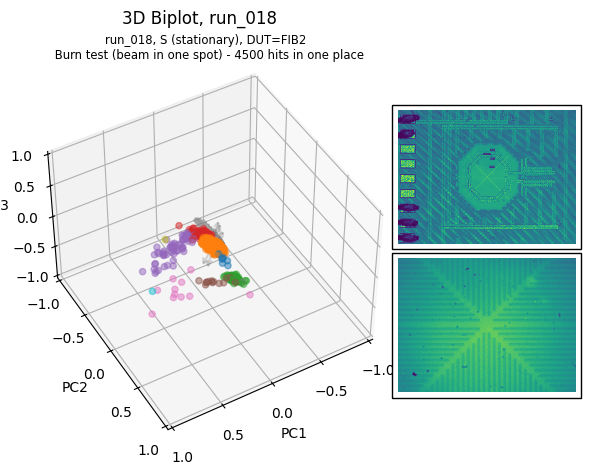
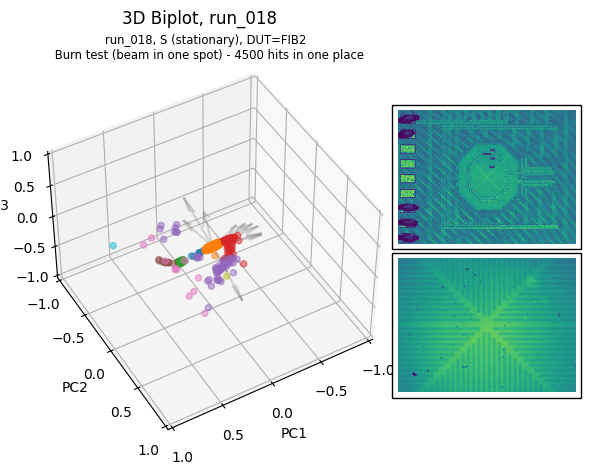
Added derivative and fft plots, changed test feature extraction

Changed region(s): [[0.2132, 0.4126, 0.4569, 0.6779], [0.2437, 0.6484, 0.2741, 0.6779], [0.1827, 0.5011, 0.2132, 0.5305]]

diff --git a/new/feature_extraction_test.py b/new/feature_extraction_test.py
@@ -42,10 +42,10 @@ import h5py
 import argparse
 import numpy as np
 import pandas as pd
-
 import dask
 import dask.dataframe as dd
 from dask.distributed import Client, LocalCluster
+from tsfresh.feature_extraction import extract_features
 
 
 from config import (
@@ -59,6 +59,9 @@ from utils import require_processing_stage
 
 # TODO add beam position info to transient
 
+FC_PARAMETERS = {
+    "maximum": None
+}
 
 def load_transient(h5_path, tran_name, time_data):
     # TODO try to find way to speed up reading transients from disk
@@ -94,20 +97,28 @@ def process_transient(df):
     # Remove NaN 'probe' data since it is causing issues with feature extraction
     df = df[df["transient"].notna()]
 
+    # Extract features of single transient
+    feature_df = extract_features(
+        df,
+        column_id="transient",
+        column_sort="time",
+        n_jobs=0,
+        default_fc_parameters=FC_PARAMETERS,
+        disable_progressbar=True,
+        show_warnings=False,
+    )
+
     # Set tranient column as index
-    feature_df = pd.DataFrame()
     feature_df = feature_df.rename_axis("transient").reset_index(drop=False)
     feature_df.transient = feature_df.transient.astype("category")
     feature_df.set_index("transient")
 
-    feature_df["transient"] = [df['transient'].iloc[0]]
-
     if (len(df["time"].to_numpy()) > 1):
-        bin_maxs, last_timestamps = max_values_in_bins(df["time"].to_numpy(), df["frequency"].to_numpy(), 100)
+        bin_maxs, last_timestamps = max_values_in_bins(df["time"].to_numpy(), df["frequency"].to_numpy(), 8)
         for param_name, param_value in enumerate(bin_maxs):
             feature_df["max_bin_" + str(param_name)] = [param_value]
     else:
-        bin_maxs = np.repeat(1, 100)
+        bin_maxs = np.repeat(1, 8)
         for param_name, param_value in enumerate(bin_maxs):
             feature_df["max_bin_" + str(param_name)] = [param_value]
 
@@ -115,8 +126,10 @@ def process_transient(df):
 
 
 def max_values_in_bins(timestamps, values, num_bins):
-    # Calculate the bin size
-    bin_size = (timestamps[-1] - timestamps[0]) / num_bins
+    # Calculate the bin size based on num_bins symetric around zero point
+    #TODO find better way to select zero index
+    zero_timestamp = np.where(np.isclose(timestamps, 0, atol=1e-5))[0][0]
+    bin_size = 2 * (timestamps[zero_timestamp] - timestamps[0]) / num_bins
 
     # Calculate the bin edges
     bin_edges = [timestamps[0] + i * bin_size for i in range(num_bins + 1)]
@@ -135,11 +148,6 @@ def max_values_in_bins(timestamps, values, num_bins):
         last_timestamp = timestamps[mask][-1] if np.any(mask) else None
         bin_maxs.append(bin_max)
         last_timestamps.append(last_timestamp)
-
-    # Normalize the bin sums to the range [0, 1]
-    # max_sum = np.max(bin_maxs)
-    # min_sum = np.min(bin_maxs)
-    # normalized_bin_maxs = [(x - min_sum) / (max_sum - min_sum) for x in bin_maxs]
 
     return bin_maxs, last_timestamps
 

diff --git a/new/plot_transient_fft.py b/new/plot_transient_fft.py
@@ -1,0 +1,77 @@
+import os
+import numpy as np
+import argparse
+import h5py
+import matplotlib.pyplot as plt
+
+from config import (
+    DATA_STRUCTURED_DIRECTORY,
+    WINDOW_SIZE,
+    DOWNSAMPLE_FACTOR,
+)
+from utils import generatePlotTitle, require_processing_stage
+
+# Initialise argument parser
+parser = argparse.ArgumentParser()
+parser.add_argument("run_number", type=int)
+parser.add_argument("tran_number", type=int)
+args = parser.parse_args()
+run_number = args.run_number
+tran_number = args.tran_number
+
+# TODO cleanup code
+
+h5_path = os.path.join(DATA_STRUCTURED_DIRECTORY, f"run_{run_number:03d}.h5")
+with h5py.File(h5_path, "r") as h5file:
+    tran_name = f"tran_{tran_number:06d}"
+    
+    # Check if file is up to required processing stage
+    require_processing_stage(h5file, 2, strict=True)
+
+    # Get additional meta data
+    fs = h5file["sdr_data"].attrs["sdr_info_fs"]
+    len_pretrig = h5file["sdr_data"].attrs["sdr_info_len_pretrig"]
+    len_posttrig = h5file["sdr_data"].attrs["sdr_info_len_posttrig"]
+    dsp_ntaps = h5file["sdr_data"].attrs["dsp_info_pre_demod_lpf_taps"]
+
+    # Calculate real time from meta data
+    event_len = len_pretrig + len_posttrig - dsp_ntaps
+    time_data = np.arange(start=0, stop=event_len / fs, step=1 / fs) - len_pretrig / fs
+
+    tran_data = np.array(h5file["sdr_data"]["all"][tran_name])
+
+    # Subtract mean baseline frequency from each sample to get delta frequency
+    baseline_freq = h5file["sdr_data"]["all"][tran_name].attrs["baseline_freq_mean_hz"]
+    tran_data = np.subtract(tran_data, baseline_freq)
+
+    # Apply moving average filter
+    window = np.ones(WINDOW_SIZE) / WINDOW_SIZE
+    tran_data_ds = np.convolve(tran_data, window, mode="valid")
+
+    # Adjust time data to match length of convoluted output
+    time_data_ds = time_data[WINDOW_SIZE - 1 :]
+
+    # Downsample time and frequency data
+    time_data_ds = time_data_ds[::DOWNSAMPLE_FACTOR]
+    tran_data_ds = tran_data_ds[::DOWNSAMPLE_FACTOR]
+    
+    fig, ax = plt.subplots()
+    ## FFT
+    # Calculate time intervals
+    time_intervals = np.diff(time_data_ds)  # Differences between consecutive timestamps
+
+    # Perform Fourier transformation
+    fft_values = np.fft.fft(tran_data_ds)
+    frequencies = np.fft.fftfreq(len(fft_values), d=time_intervals[0])  # Use the first time interval
+
+    # Keep only positive frequencies (assuming real input)
+    positive_frequencies = frequencies[:len(frequencies) // 2]
+    positive_fft_values = 2.0 / len(fft_values) * np.abs(fft_values[:len(fft_values) // 2])
+
+    # Plot the Fourier-transformed value vs. frequency
+    ax.plot(positive_frequencies[25:], positive_fft_values[25:])
+    ax.set_xlabel("Frequency (Hz)")
+    ax.set_ylabel("Amplitude")
+
+    generatePlotTitle(ax, f"Transient {tran_name} - FFT", run_number)
+    plt.savefig(f"plots/run_fft_{run_number:03d}_{tran_name}.png", bbox_inches="tight")

diff --git a/new/plot_transient_dt.py b/new/plot_transient_dt.py
@@ -1,0 +1,72 @@
+import os
+import numpy as np
+import argparse
+import h5py
+import matplotlib.pyplot as plt
+
+from config import (
+    DATA_STRUCTURED_DIRECTORY,
+    WINDOW_SIZE,
+    DOWNSAMPLE_FACTOR,
+)
+from utils import generatePlotTitle, require_processing_stage
+
+# Initialise argument parser
+parser = argparse.ArgumentParser()
+parser.add_argument("run_number", type=int)
+parser.add_argument("tran_number", type=int)
+args = parser.parse_args()
+run_number = args.run_number
+tran_number = args.tran_number
+
+# TODO cleanup code
+
+h5_path = os.path.join(DATA_STRUCTURED_DIRECTORY, f"run_{run_number:03d}.h5")
+with h5py.File(h5_path, "r") as h5file:
+    tran_name = f"tran_{tran_number:06d}"
+    
+    # Check if file is up to required processing stage
+    require_processing_stage(h5file, 2, strict=True)
+
+    # Get additional meta data
+    fs = h5file["sdr_data"].attrs["sdr_info_fs"]
+    len_pretrig = h5file["sdr_data"].attrs["sdr_info_len_pretrig"]
+    len_posttrig = h5file["sdr_data"].attrs["sdr_info_len_posttrig"]
+    dsp_ntaps = h5file["sdr_data"].attrs["dsp_info_pre_demod_lpf_taps"]
+
+    # Calculate real time from meta data
+    event_len = len_pretrig + len_posttrig - dsp_ntaps
+    time_data = np.arange(start=0, stop=event_len / fs, step=1 / fs) - len_pretrig / fs
+    tran_data = np.array(h5file["sdr_data"]["all"][tran_name])
+
+    # Subtract mean baseline frequency from each sample to get delta frequency
+    baseline_freq = h5file["sdr_data"]["all"][tran_name].attrs["baseline_freq_mean_hz"]
+    tran_data = np.subtract(tran_data, baseline_freq)
+    
+    # Apply moving average filter
+    WINDOW_SIZE = 1000
+    window = np.ones(WINDOW_SIZE) / WINDOW_SIZE
+    tran_data = np.convolve(tran_data, window, mode="valid")
+
+    # Adjust time data to match length of convoluted output
+    time_data = time_data[WINDOW_SIZE - 1 :]
+
+    # Downsample time and frequency data
+    time_data = time_data[::DOWNSAMPLE_FACTOR]
+    tran_data = tran_data[::DOWNSAMPLE_FACTOR]
+    
+    # Calculate derivative
+    time_data_dt = time_data[1:]
+    tran_data_dt = np.diff(tran_data)
+    
+    fig, ax = plt.subplots(2, 1)
+    ax[0].plot(time_data, tran_data)
+    ax[0].set_xlabel("Time (s)")
+    ax[0].set_ylabel("Delta frequency (Hz)")
+    
+    ax[1].plot(time_data_dt, tran_data_dt)
+    ax[1].set_xlabel("Time (s)")
+    ax[1].set_ylabel("Delta frequency (Hz)")
+
+    ax[0].set_title(f"Transient {tran_name} - Derivative")
+    plt.savefig(f"plots/run_dt_{run_number:03d}_{tran_name}.png", bbox_inches="tight")

diff --git a/new/plot_downsampling.py b/new/plot_downsampling.py
@@ -23,19 +23,21 @@ def moving_average(tran_data, time_data, downsample_factor, window_size):
     return tran_data, time_data
 
 def max_values_in_bins(timestamps, values, num_bins):
-    # Calculate the bin size
-    bin_size = (timestamps[-1] - timestamps[0]) / num_bins
-    
+    # Calculate the bin size based on num_bins symetric around zero point
+    #TODO find better way to select zero index
+    zero_timestamp = np.where(np.isclose(timestamps, 0, atol=1e-5))[0][0]
+    bin_size = 2 * (timestamps[zero_timestamp] - timestamps[0]) / num_bins
+
     # Calculate the bin edges
     bin_edges = [timestamps[0] + i * bin_size for i in range(num_bins + 1)]
-    
+
     # Compute the histogram
     bin_indices = np.digitize(timestamps, bin_edges)
-    
+
     # Initialize variables to store sums and last timestamps
     bin_maxs = []
     last_timestamps = []
-    
+
     # Iterate through the bins
     for bin_num in range(1, num_bins + 1):
         mask = bin_indices == bin_num
@@ -43,12 +45,7 @@ def max_values_in_bins(timestamps, values, num_bins):
         last_timestamp = timestamps[mask][-1] if np.any(mask) else None
         bin_maxs.append(bin_max)
         last_timestamps.append(last_timestamp)
-        
-    # Normalize the bin sums to the range [0, 1]
-    # max_sum = np.max(bin_maxs)
-    # min_sum = np.min(bin_maxs)
-    # normalized_bin_maxs = [(x - min_sum) / (max_sum - min_sum) for x in bin_maxs]
-    
+
     return bin_maxs, last_timestamps
         
 def exponential_decay(t, N, λ, c):
@@ -129,8 +126,8 @@ with h5py.File(h5_path, "r") as h5file:
     axis.plot(time_data, tran_data, ".")
     axis.plot(time_data_processed, tran_data_processed, ".-")
 
-    bin_maxs, last_timestamps = max_values_in_bins(time_data_processed, tran_data_processed, 100)
-    axis.plot(last_timestamps, bin_maxs, "ro")
+    bin_maxs, last_timestamps = max_values_in_bins(time_data_processed, tran_data_processed, 8)
+    axis.step(last_timestamps, bin_maxs, "r-", linewidth=3)
 
     try:
         axis.plot(

diff --git a/new/plot_features_pca.py b/new/plot_features_pca.py
@@ -64,6 +64,10 @@ sns.scatterplot(
     x="PC1", y="PC2", data=pca_df_scaled, hue="type", legend=True, ax=ax
 )
 
+for i, txt in enumerate(df["transient"]):
+    if random.random() < 0.5:
+        ax.annotate(txt, (pca_df_scaled["PC1"][i], pca_df_scaled["PC2"][i]))
+
 varnames = {}
 for i, varname in enumerate(feature_names):
     ax.arrow(
@@ -76,6 +80,8 @@ for i, varname in enumerate(feature_names):
         alpha=0.3,
     )
     varnames[varname] = (xs[i] ** 2 + ys[i] ** 2) ** 0.5
+
+print({k: v for k, v in sorted(varnames.items(), key=lambda item: item[1], reverse=True)})
     
 xticks = np.linspace(-1, 1, num=5)
 yticks = np.linspace(-1, 1, num=5)

diff --git a/new/feature_extraction.py b/new/feature_extraction.py
@@ -124,10 +124,7 @@ def process_transient(df):
     # Remove NaN 'probe' data since it is causing issues with feature extraction
     df = df[df["transient"].notna()]
 
-    # TODO use delta frequence -> subtract baseline freq from h5 files
-
     # Extract features of single transient
-    # TODO use multiprocessing here dependant on how many thread this worker has available
     feature_df = extract_features(
         df,
         column_id="transient",

diff --git a/new/plot_transient.py b/new/plot_transient.py
@@ -68,6 +68,6 @@ with h5py.File(h5_path, "r") as h5file:
     )
     ax.set_xlabel("Time (s)")
     ax.set_ylabel("Delta frequency (Hz)")
-
+    
     generatePlotTitle(ax, f"Transient {tran_name} - downsampled", run_number)
     plt.savefig(f"plots/run_{run_number:03d}_{tran_name}.png", bbox_inches="tight")
